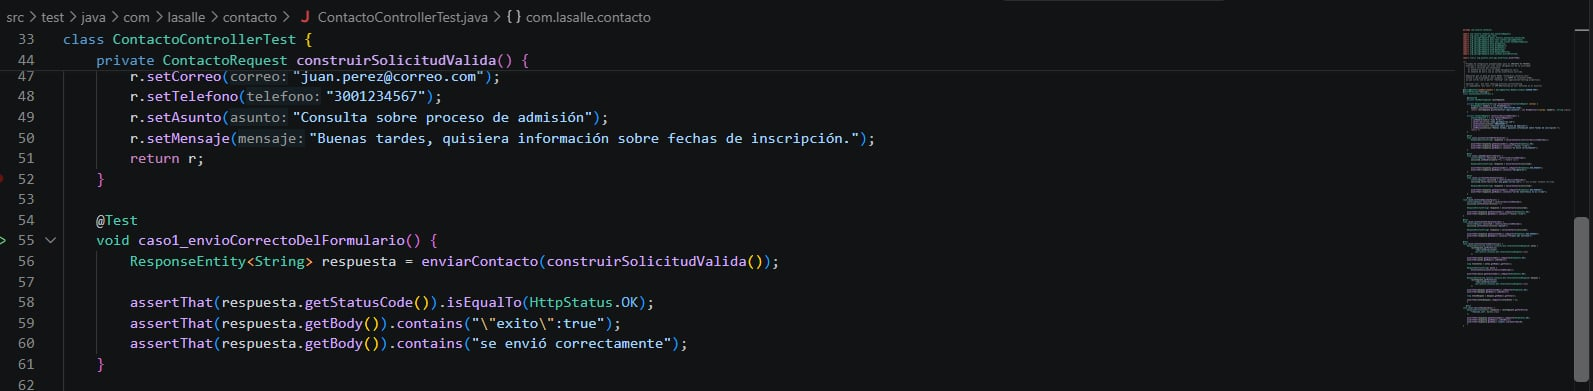
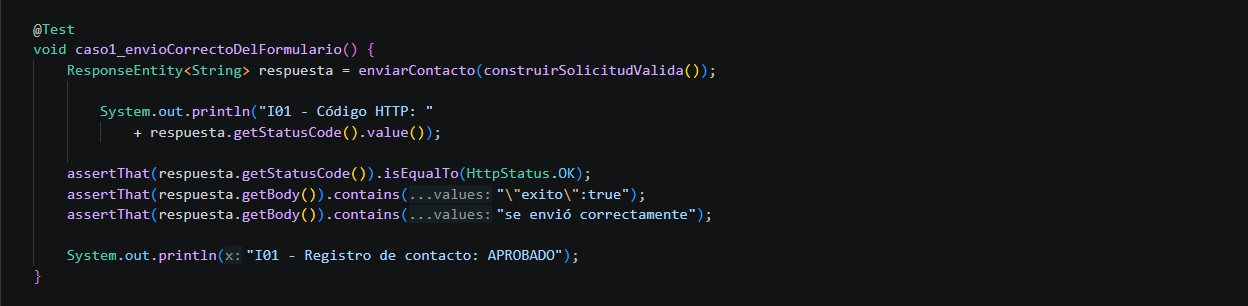
docs: completar resultados I01 e I02

diff --git a/docs/actividad8/integracion/informe/casos-integracion.md b/docs/actividad8/integracion/informe/casos-integracion.md
@@ -1,0 +1,18 @@
+
+I01:
+
+Objetivo: verificar el registro correcto de un contacto.
+
+Datos: nombre Juan Pérez, correo válido, teléfono 3001234567, asunto y mensaje completos.
+
+Resultado esperado: respuesta HTTP 200 y registro almacenado correctamente.
+
+I02:
+
+Objetivo: verificar que el contador cambie después de registrar un nuevo contacto.
+
+Resultado esperado: HTTP 200 y totalDespues = totalAntes + 1.
+
+El controlador recibe la solicitud HTTP y delega el registro al servicio. El servicio utiliza el repositorio JPA para guardar los datos en H2. El endpoint del contador consulta la cantidad de registros mediante el repositorio y devuelve el total actualizado.
+
+
